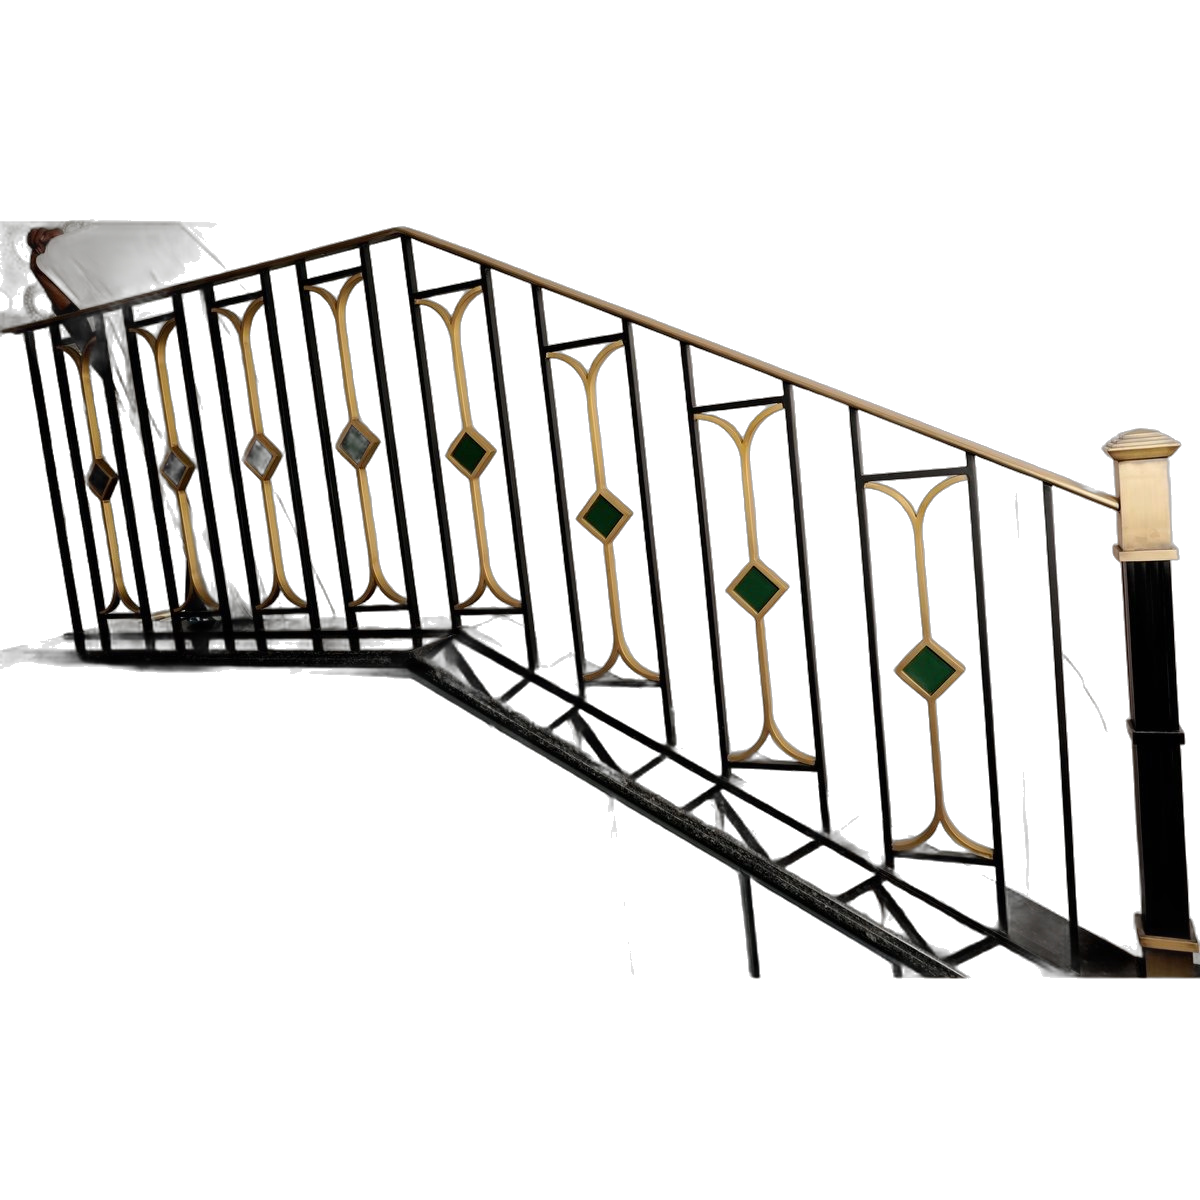
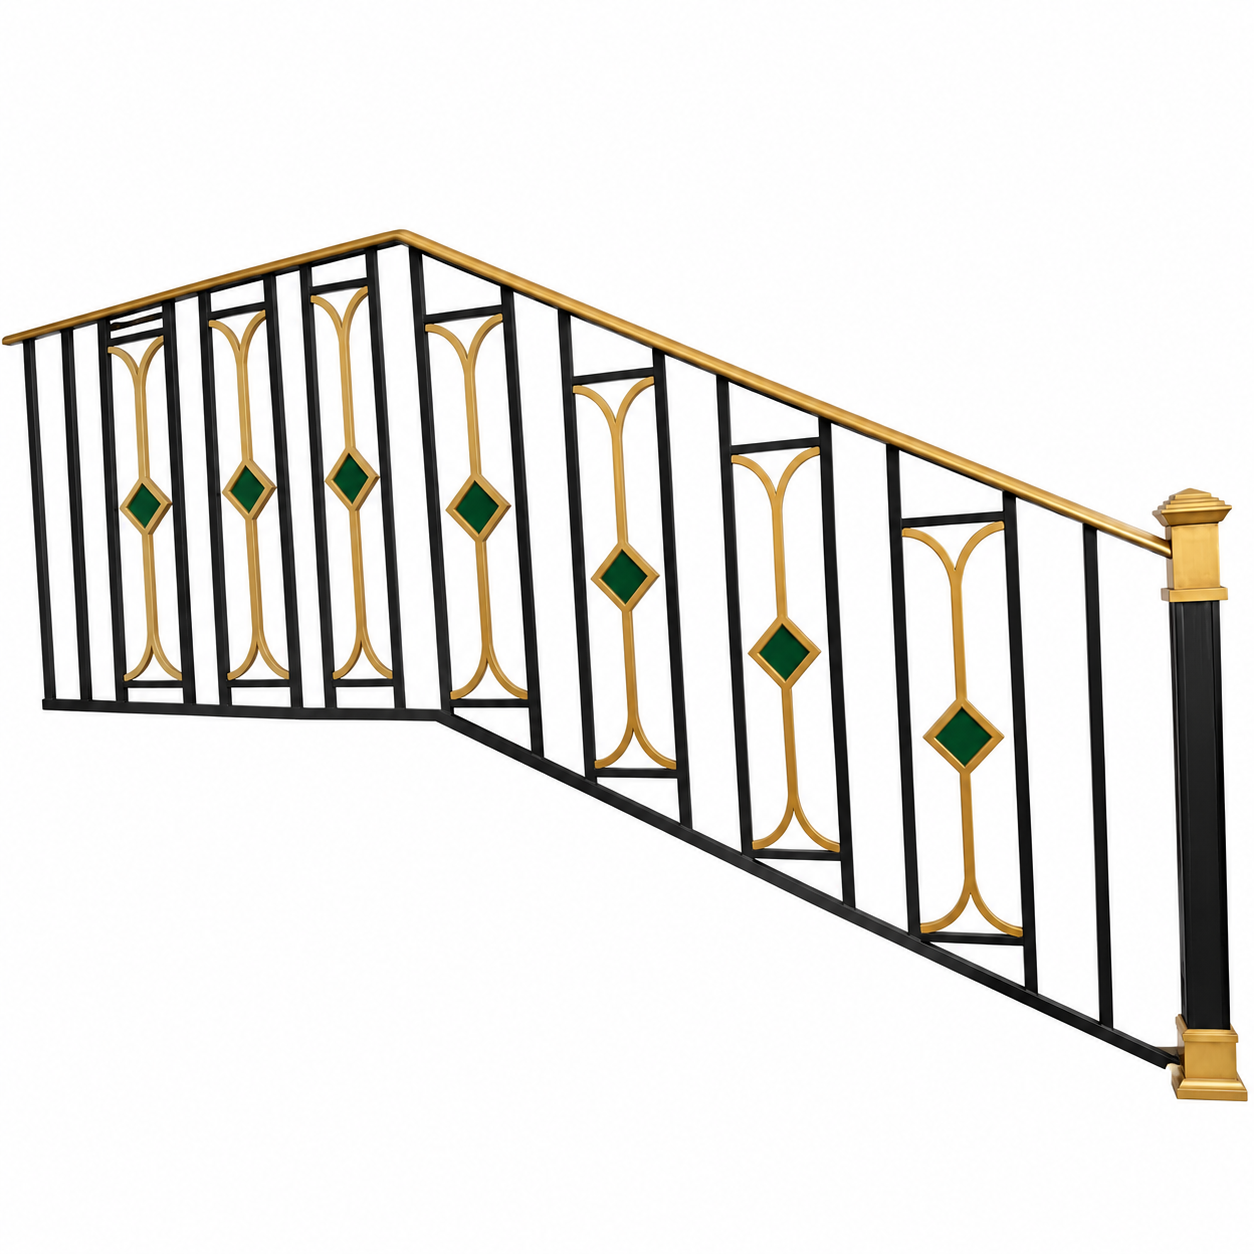
Replace selected white background product images

Changed region(s): [[0.0, 0.185, 1.0, 0.8942]]

diff --git a/products.html b/products.html
@@ -921,7 +921,7 @@
                     </div>
                     <div class="px-card" data-cat="railings"
                         data-img="images/products/balusters/spear-tip-baluster.png"
-                        data-thumbs="images/products/balusters/spear-tip-baluster.png|images/products/white-bg-images/7.jpg"
+                        data-thumbs="images/products/balusters/spear-tip-baluster.png|images/products/white-bg-images/7.png"
                         data-name="Spear-tip Baluster" data-cat-label="Railings"
                         data-desc="Classic spear top with clean shaft. Used extensively in boundary fencing, garden railings, and perimeter gates."
                         data-specs="<tr><td>Material</td><td>Stainless Steel</td></tr><tr><td>Profile</td><td>Customisable as per requirement</td></tr><tr><td>Size</td><td>Customisable as per requirement</td></tr><tr><td>Height</td><td>Customisable as per requirement</td></tr><tr><td>Finish</td><td>Customisable as per requirement</td></tr><tr><td>Application</td><td>Gates, fencing, boundary walls</td></tr>">
@@ -967,7 +967,7 @@
                         </div>
                     </div>
                     <div class="px-card" data-cat="railings" data-img="images/products/balusters/ornate-baluster.png"
-                        data-thumbs="images/products/balusters/ornate-baluster.png|images/products/white-bg-images/10.jpg"
+                        data-thumbs="images/products/balusters/ornate-baluster.png|images/products/white-bg-images/10.png"
                         data-name="Ornate Baluster" data-cat-label="Railings"
                         data-desc="Highly detailed ornamental design with decorative mouldings. Suited for grand staircases and luxury interiors."
                         data-specs="<tr><td>Material</td><td>Brass + Iron</td></tr><tr><td>Profile</td><td>Customisable as per requirement</td></tr><tr><td>Size</td><td>Customisable as per requirement</td></tr><tr><td>Height</td><td>Customisable as per requirement</td></tr><tr><td>Finish</td><td>Customisable as per requirement</td></tr><tr><td>Application</td><td>Grand entrances, luxury residences</td></tr>">
